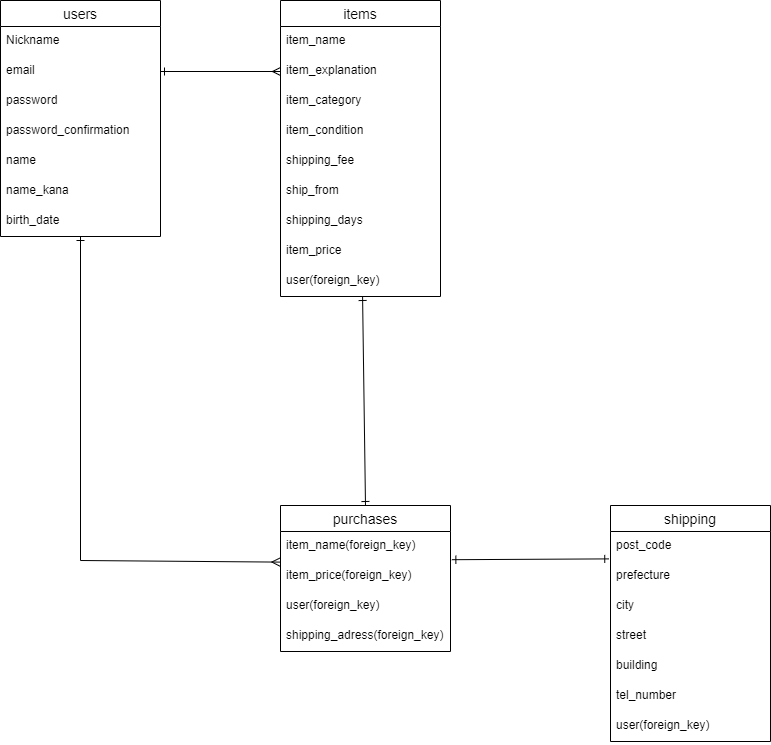
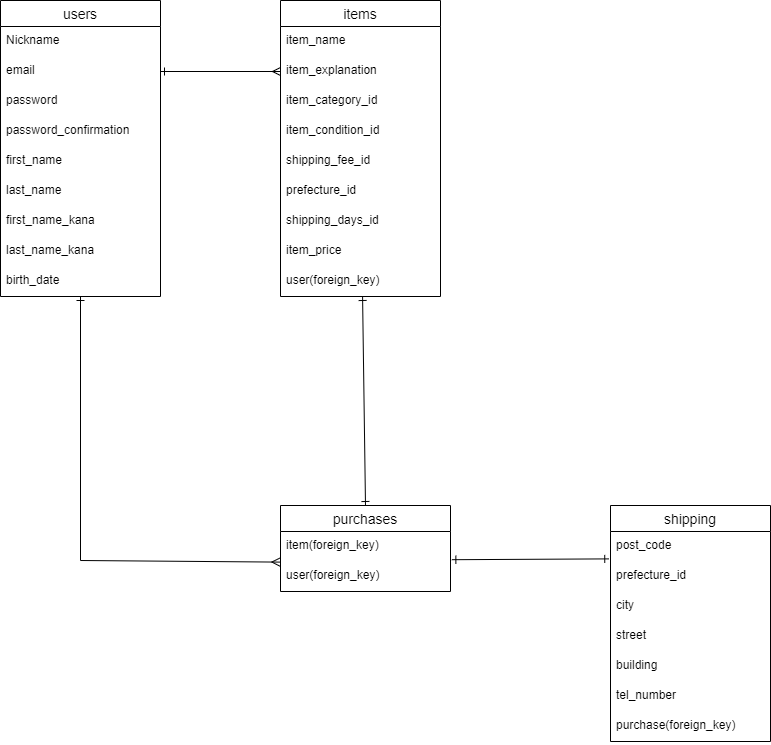
データベース設計(修正)

diff --git a/README.md b/README.md
@@ -4,45 +4,58 @@
 
 |Column             |Type    |Options  |
 |-------------------|--------|---------|
-|Nickname           |string  |NOT NULL |
-|email              |string  |NOT NULL, UNIQUE |
-|encrypted_password |string  |NOT NULL |
-|name               |string  |NOT NULL |
-|name_kana          |string  |NOT NULL |
-|birth_date         |integer |NOT NULL |
+|Nickname           |string  |not null |
+|email              |string  |not null, unique |
+|encrypted_password |string  |not null |
+|first_name         |string  |not null |
+|last_name          |string  |not null |
+|first_name_kana    |string  |not null |
+|last_name_kana     |string  |not null |
+|birth_date         |date    |not null |
+
+- has_many :items
+- has_many :purchases
 
 ## items テーブル
 
 |Column             |Type       |Options  |
 |-------------------|-----------|---------|
-|item_name          |string     |NOT NULL |
-|item_explanation   |text       |NOT NULL |
-|item_category      |text       |NOT NULL |
-|item_condition     |text       |NOT NULL |
-|shipping_fee       |text       |NOT NULL |
-|ship_from          |text       |NOT NULL |
-|shipping_days      |integer    |NOT NULL |
-|item_price         |integer    |NOT NULL |
-|user               |references |NOT NULL, 外部キー |
+|item_name          |string     |not null |
+|item_explanation   |text       |not null |
+|item_category_id   |integer    |not null |
+|item_condition_id  |integer    |not null |
+|shipping_fee_id    |integer    |not null |
+|prefecture_id      |string     |not null |
+|shipping_days_id   |integer    |not null |
+|item_price         |integer    |not null |
+|user               |references |not null, foreign_key |
+
+-belongs_to :users
+-has_one :purchases
 
 ## purchases テーブル
 |Column             |Type       |Options  |
 |-------------------|-----------|---------|
-|item_name          |references |NOT NULL, 外部キー |
-|item_price         |references |NOT NULL, 外部キー |
-|user               |references |NOT NULL, 外部キー |
-|shipping_address   |references |NOT NULL, 外部キー |
+|item               |references |not null, foreign_key |
+|user               |references |not null, foreign_key |
+
+-belongs_to :users
+-belongs_to :items
+-has_one :shipping
+
 
 ## shipping テーブル
 |Column             |Type       |Options  |
 |-------------------|-----------|---------|
-|post_code          |integer    |NOT NULL |
-|prefecture         |text       |NOT NULL |
-|city               |text       |NOT NULL |
-|street             |text       |NOT NULL |
-|building           |text       |         |
-|tel_number         |integer    |NOT NULL |
-|user               |references |NOT NULL, 外部キー |
+|post_code          |string     |not null |
+|prefecture_id      |string     |not null |
+|city               |string     |not null |
+|street             |string     |not null |
+|building           |string     |         |
+|tel_number         |string     |not null |
+|purchase           |references |not null, foreign_key |
+
+-belongs to :purchases
 
 
 
